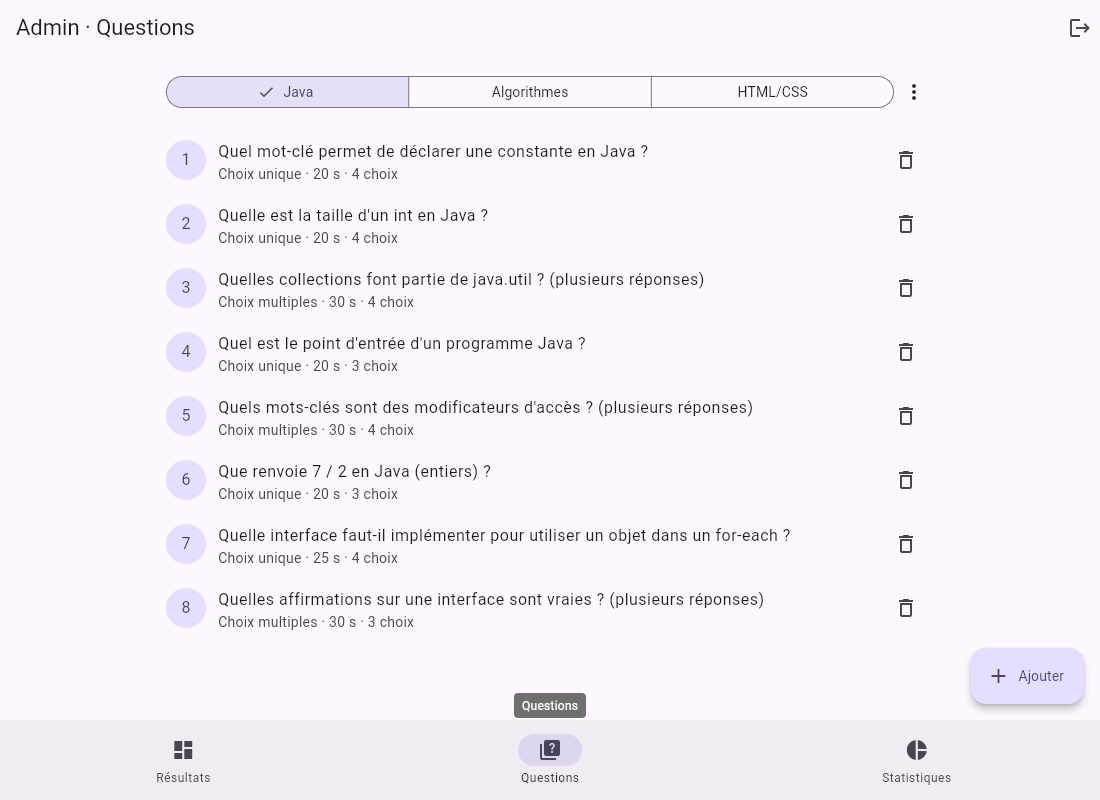
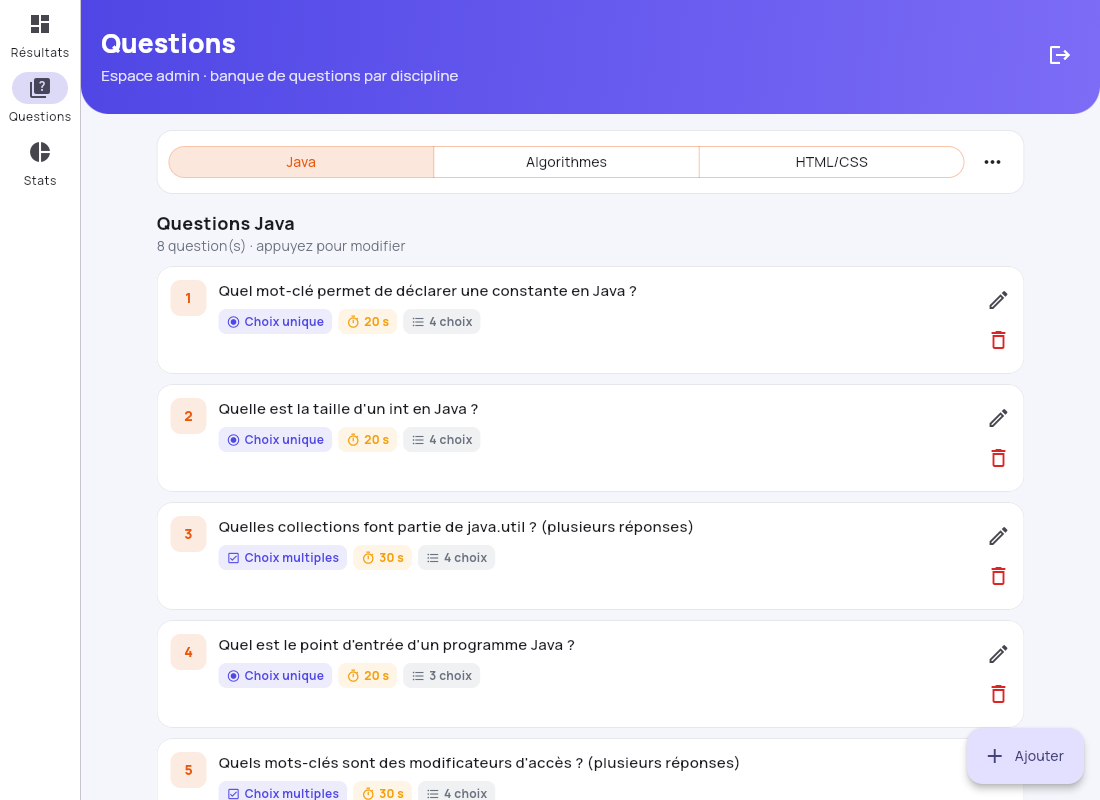
docs: nouvelles captures d'écran, README (thème, widgets, conventions, boucles)
Claude-Session: https://claude.ai/code/session_01FSrFhdctKurXTwJTUG76AM

diff --git a/README.md b/README.md
@@ -60,6 +60,8 @@ Sur le web, SQLite tourne en WebAssembly : les fichiers `web/sqflite_sw.js` et
   `sqflite_common_ffi_web` sur le web, `sqflite_common_ffi` en mémoire dans les tests.
 - **provider** pour partager la base, les repositories et l'utilisateur connecté (`AuthState`).
 - **fl_chart** pour les camemberts, **crypto** pour le hachage SHA-256 des mots de passe.
+- **flutter_animate** (animations d'apparition), **percent_indicator** (score circulaire),
+  police **Manrope** embarquée dans `assets/fonts/` (licence OFL).
 
 ```
 lib/
@@ -76,11 +78,16 @@ lib/
 │   └── question_json.dart    analyse / validation / export du JSON de questions
 ├── models/                   Discipline, Motivation, AppUser, Question, TestResult
 ├── state/auth_state.dart     utilisateur connecté (ChangeNotifier)
+├── theme/                    palette (AppColors) et thème Material 3 (buildAppTheme)
+├── widgets/                  composants partagés : GradientHeader, DisciplineAvatar,
+│                             StatusChip, EmptyState, SectionTitle
 └── screens/
     ├── auth/                 connexion, inscription
     ├── candidate/            accueil, test chronométré, résultat, profil
     └── admin/                coque, tableau de bord, questions, éditeur, import JSON, stats
 assets/questions/             questions par défaut (un JSON par discipline)
+docs/CONVENTIONS.md           règles de commentaires, de boucles simples et d'UI
+docs/BOUCLES.md               catalogue de toutes les boucles du code, expliquées une par une
 docs/superpowers/             design et plan d'implémentation
 test/                         82 tests (logique, repositories, widgets)
 ```
@@ -127,3 +134,10 @@ flutter test      # 82 tests
 
 Les repositories sont testés sur une base SQLite en mémoire, les écrans avec des tests de
 widgets (formulaires, timer du test, recherche, import JSON, camemberts).
+
+### Lisibilité du code
+
+Le code est entièrement commenté en français (voir `docs/CONVENTIONS.md`) : chaque fichier,
+classe et méthode explique ce qu'il fait et pourquoi. Toutes les boucles sont de simples
+`for` avec un accumulateur explicite, précédées d'un commentaire, et `docs/BOUCLES.md`
+les liste une par une avec une explication prête pour l'oral.
